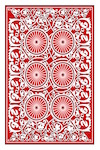
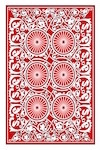
Fixed card back

diff --git a/static/css/style.css b/static/css/style.css
@@ -117,6 +117,7 @@ button {
 }
 
 .player_card img {
+  transform: scaleX(-1);
   position: absolute;
 }
 
@@ -169,7 +170,6 @@ button {
 
 #action_card {
   z-index: 1000;
-  transform: rotate(180deg);
   transition: transform .5s, left .5s, top .5s;
 }
 
@@ -241,4 +241,4 @@ button {
   color: red;
 }
 
[2 lines of base64/hex data omitted]

diff --git a/static/javascript/main.js b/static/javascript/main.js
@@ -97,13 +97,14 @@ $(document).ready(function() {
       //Deal a single card to player
       this.deal = function(player){
         $('#deck').append('<div id="action_card" class="deal_card card"></div>');
+        //Calculate where to send card based on location of player's hand and number of cards in hand
         var top = ($(`#hand_${player.position}`).offset().top - 96);
-        var left = ($(`#hand_${player.position}`).offset().left - 48 + (20 * player.hand.length));
+        var left = ($(`#hand_${player.position}`).offset().left - 47 + (20 * player.hand.length));
         var newCard = {};
         $('#action_card').css({
           'top' : `${top}px`,
           'left' : `${left}px`,
-          'transform' : 'rotate(0deg)',
+          'transform' : 'rotate(180deg)',
         });
         setTimeout(function(){
           $('#action_card').remove();
@@ -343,7 +344,7 @@ $(document).ready(function() {
       })
       game.takeTurn(players[players.length-1]);
       //Calculate wait time before flipping cards based on number of players
-    }, (((players.length * 2) + .1) * 1000))
+    }, (((players.length * 2) + .5) * 1000))
   });
 
   //Reset for a new game

diff --git a/static/css/style.scss b/static/css/style.scss
@@ -85,7 +85,6 @@ button{
   height: 150px;
   width: 100px;
   margin: 2px;
-  //padding: 4px;
   border: 2px solid black;
   border-radius: 5%;
   background: white;
@@ -105,6 +104,7 @@ button{
   transform: rotateY(180deg);
   transition: transform .4s;
   img{
+    transform: scaleX(-1);
     position: absolute;;
   }
   .rank{
@@ -158,7 +158,6 @@ button{
 
 #action_card{
   z-index: 1000;
-  transform: rotate(180deg);
   transition: transform .5s, left .5s, top .5s;
 }
 
